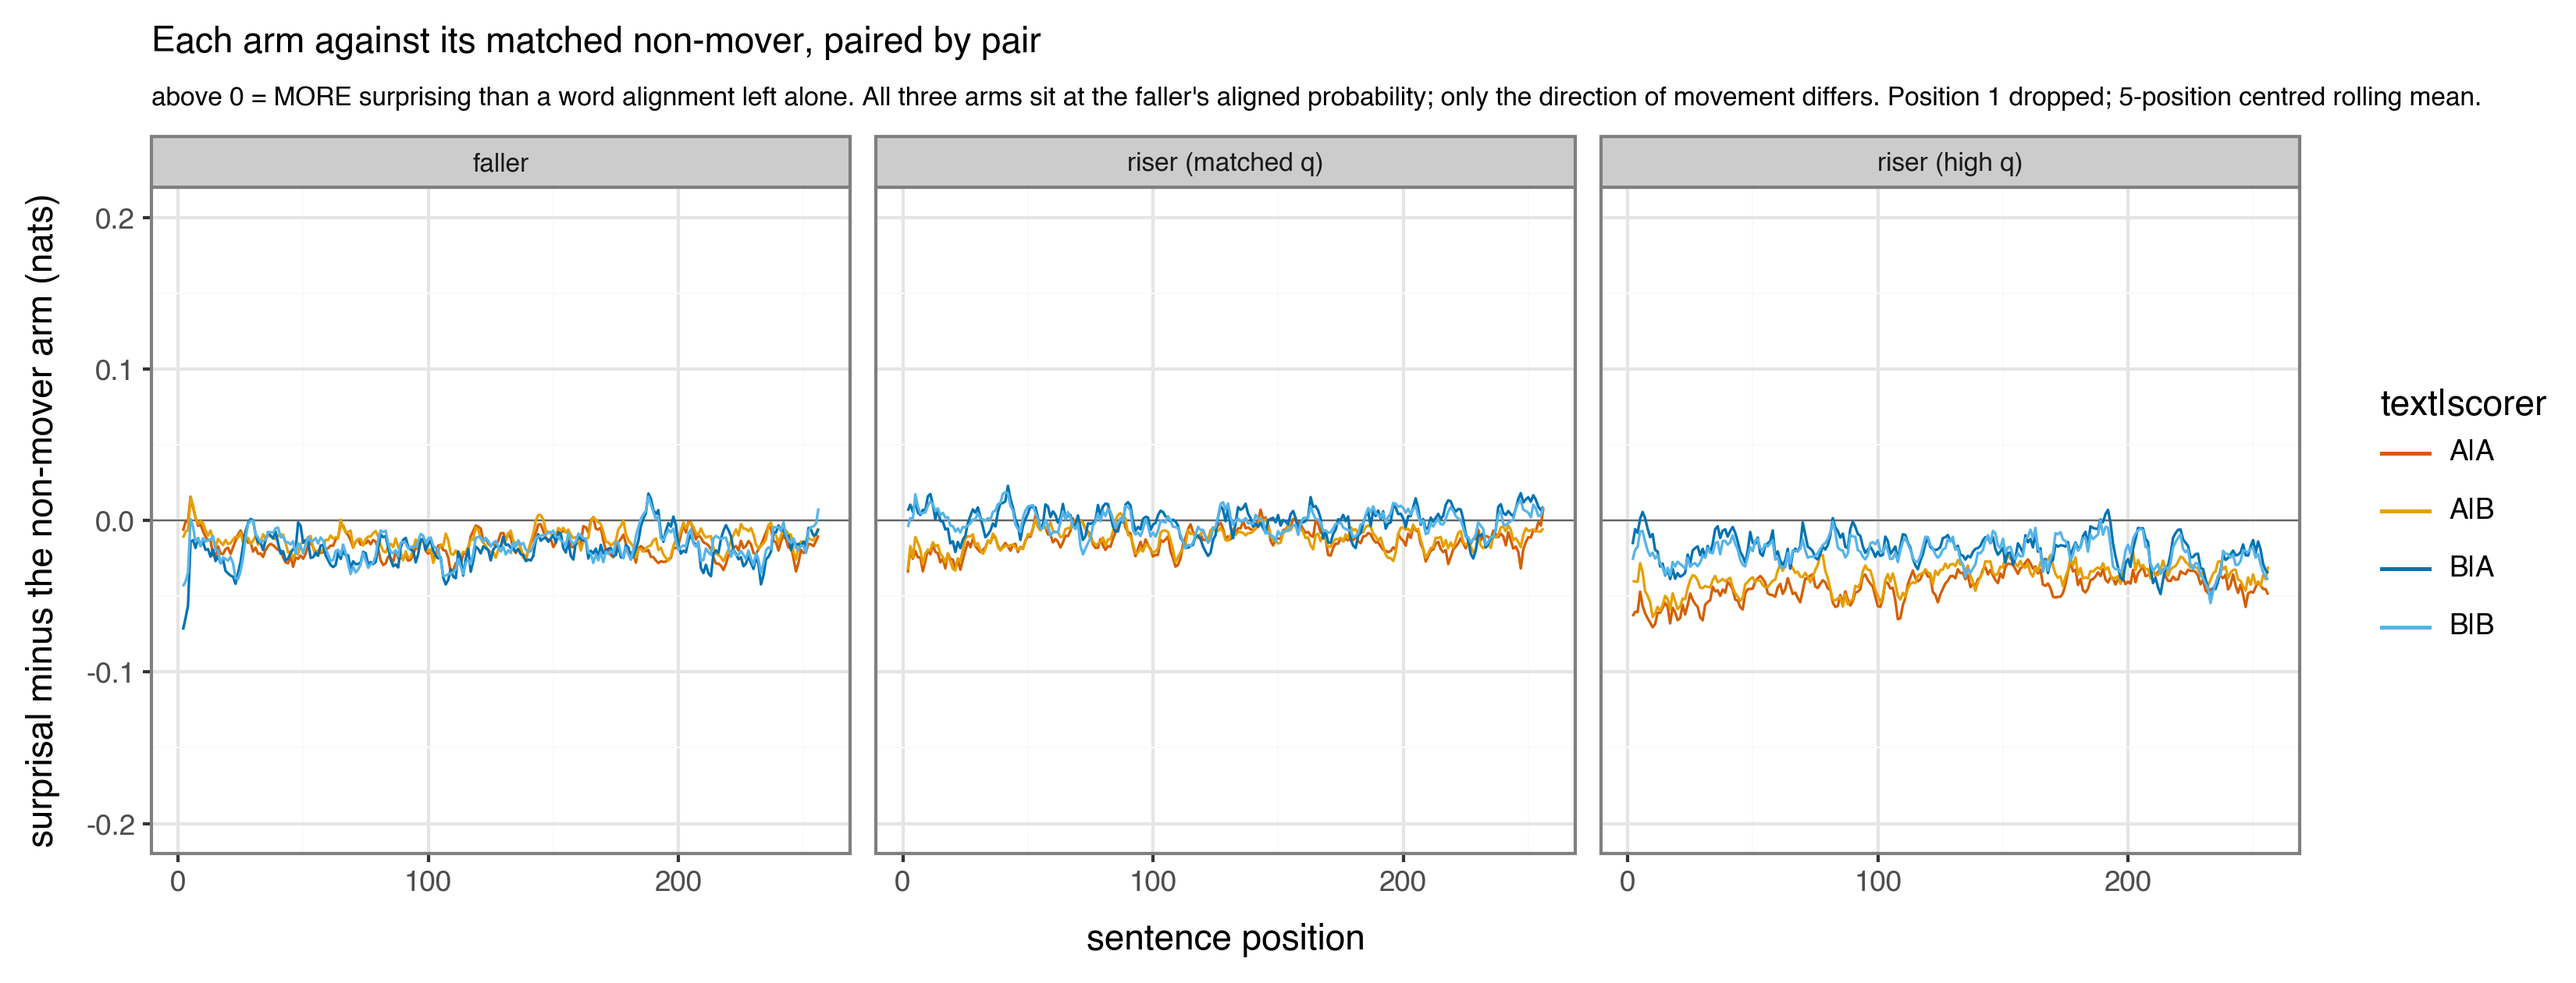
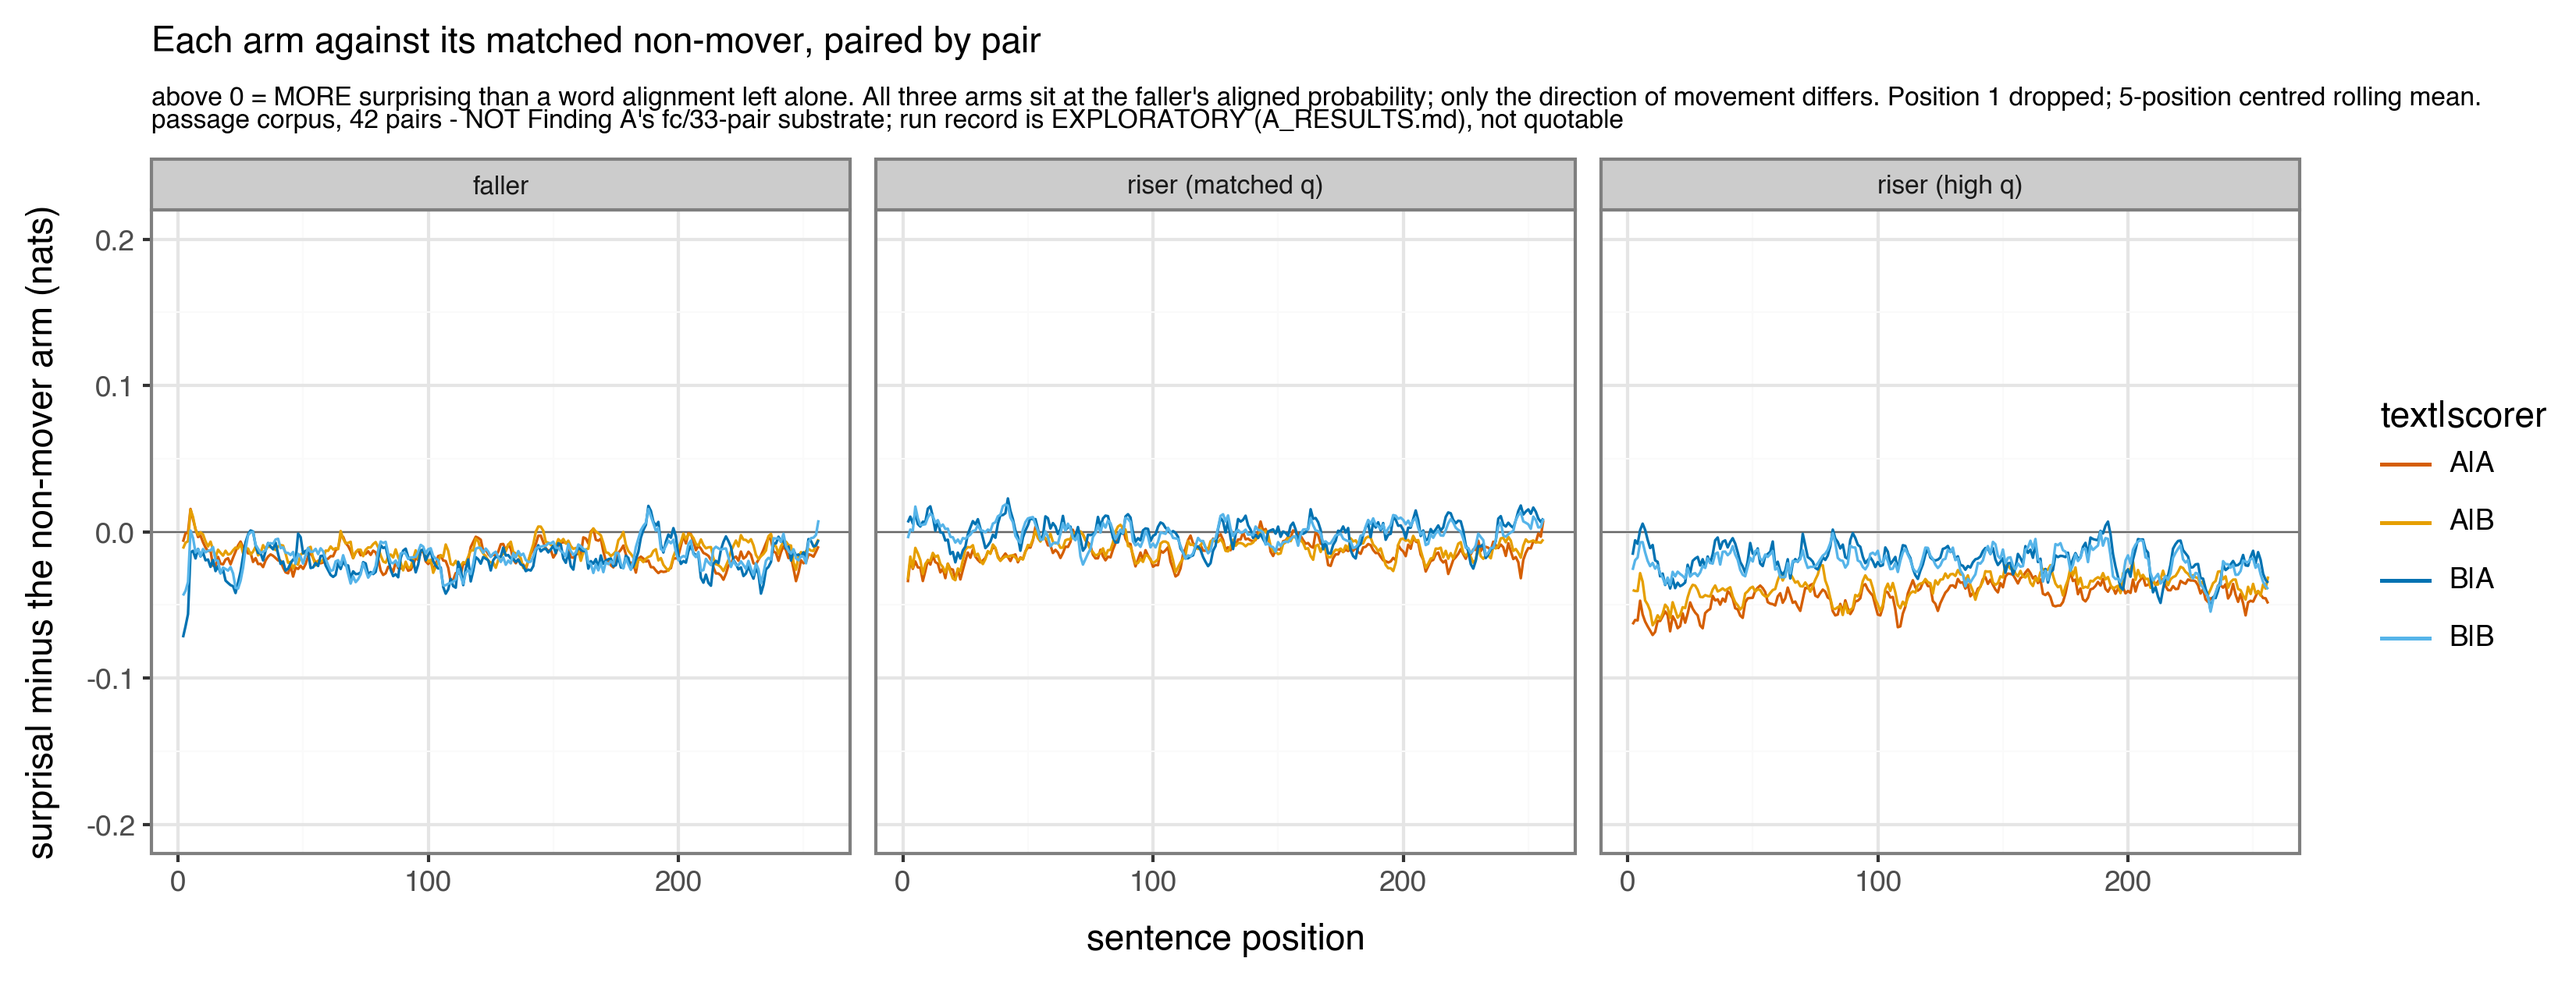
M04 figures carry their substrate: they are NOT Finding A's
dario's inventory [5901] found M04 is two substrates under one letter. Finding A
proper is the FC corpus -- 33 pairs, 23,746 cells -> 5,112 sites, registered
spec, producer channel3_run.py. These figures are named A_* and plot the PASSAGE
corpus at 42 pairs, whose run record opens "STATUS: EXPLORATORY. Nothing here is
quotable yet."

An A_-prefixed filename reads as the registered finding, so a plotter would
republish exploratory quantities as it. Every subtitle now states the corpus,
the pair count, that it is not Finding A's substrate, and that the run record is
not quotable. 12 of 14 regenerated.

The other two, A_offset_slope and A_offset_slope_terms, could not be stamped:
they have NO producing code anywhere in the repo, referenced only in
A_RESULTS.md's figure list. Self-referred as producer debt.

Changed region(s): [[0.0, 0.3405, 0.9052, 0.8667], [0.0, 0.0929, 0.9052, 0.3095], [0.9052, 0.4024, 0.9988, 0.65]]

diff --git a/meta/M04_syntagmatic/scripts/a_position_figures.py b/meta/M04_syntagmatic/scripts/a_position_figures.py
@@ -35,6 +35,19 @@ sys.path.insert(0, os.path.dirname(os.path.dirname(os.path.dirname(
 import a_matched_control as A
 import a_dose_response as R
 
+#: **SUBSTRATE STAMP, ON EVERY FIGURE. dario's inventory, [5901].**
+#: These figures are named `A_*` and they are NOT Finding A's substrate.
+#: Finding A proper is the FC corpus -- 33 pairs, 23,746 cells -> 5,112 sites,
+#: registered spec, producer channel3_run.py. These plot the PASSAGE corpus at
+#: 42 pairs, whose run record (../results/A_RESULTS.md) opens with
+#: "STATUS: EXPLORATORY. Nothing here is quotable yet."
+#:
+#: Without the stamp a reader takes an `A_*` filename for the registered finding
+#: and republishes exploratory quantities as it. A figure is a claim that got
+#: harder to retract, so it has to carry its own substrate.
+STAMP = ("passage corpus, 42 pairs - NOT Finding A's fc/33-pair substrate; "
+         "run record is EXPLORATORY (A_RESULTS.md), not quotable")
+
 FIGDIR = "meta/M04_syntagmatic/figures"
 CACHE = "meta/M04_syntagmatic/results/a_position_curves.json"
 MAXPOS = 256
@@ -168,9 +181,9 @@ def figures(rows):
                 y="surprisal  (nats, median over 42 pairs)",
                 colour="text|scorer",
                 title="Surprisal by position, arm and scoring term",
-                subtitle="first letter = who wrote it, second = who scored it; "
+                subtitle=("first letter = who wrote it, second = who scored it; "
                          "positions aligned on the sentence, not the array. "
-                         "Position 1 dropped; %d-position centred rolling mean." % ROLL)
+                         "Position 1 dropped; %d-position centred rolling mean."% ROLL) + "\n" + STAMP)
          + theme_bw()
          + theme(figure_size=(11, 6), plot_title=element_text(size=11, weight="bold"),
                  plot_subtitle=element_text(size=8), strip_text=element_text(size=8)))
@@ -178,7 +191,7 @@ def figures(rows):
 
     # full range, log-ish view of the tail
     p2 = (p + scale_x_continuous(limits=(MINPOS, MAXPOS))
-            + labs(subtitle="full 256-token window"))
+            + labs(subtitle="full 256-token window" + "\n" + STAMP))
     p2.save(os.path.join(FIGDIR, "A_position_surprisal_full.png"), dpi=300, verbose=False)
 
     # CONTRAST: PAIRED — per-pair delta at each position, THEN median over pairs.
@@ -210,10 +223,10 @@ def figures(rows):
                      y="surprisal minus the non-mover arm (nats)",
                      colour="text|scorer",
                      title="Each arm against its matched non-mover, paired by pair",
-                     subtitle="above 0 = MORE surprising than a word alignment left alone. "
+                     subtitle=("above 0 = MORE surprising than a word alignment left alone. "
                               "All three arms sit at the faller's aligned probability; "
                               "only the direction of movement differs. "
-                              "Position 1 dropped; %d-position centred rolling mean." % ROLL)
+                              "Position 1 dropped; %d-position centred rolling mean."% ROLL) + "\n" + STAMP)
               + theme_bw()
               + theme(figure_size=(11, 4.2), plot_title=element_text(size=11, weight="bold"),
                       plot_subtitle=element_text(size=8), strip_text=element_text(size=8)))
@@ -260,7 +273,8 @@ def figures_by_term(df, order, roll=None, suffix=''):
                              "Free y per panel: the between-term level gap is ~1 nat, "
                              "the between-arm differences ~0.05. "
                              + ("Position 1 dropped; NO SMOOTHING." if (roll or ROLL) <= 1 else
-                              "Position 1 dropped; %d-position centred rolling mean." % (roll or ROLL)))
+                                "Position 1 dropped; %d-position centred rolling mean." % (roll or ROLL))
+                             + "\n" + STAMP)
              + theme_bw()
              + theme(figure_size=(11, 6.5), plot_title=element_text(size=11, weight="bold"),
                      plot_subtitle=element_text(size=8), strip_text=element_text(size=9)))
@@ -289,7 +303,7 @@ def figures_by_term(df, order, roll=None, suffix=''):
                     title="Against the matched non-mover: one panel per scoring term",
                     subtitle="above 0 = MORE surprising than a word alignment left alone. "
                              "undisturbed leaves the frame at positions 1-2 (+2.6 nats, the "
-                             "definitional cost of committing to any word) — zoomed, not clipped.")
+                             "definitional cost of committing to any word) — zoomed, not clipped." + "\n" + STAMP)
              + theme_bw()
              + theme(figure_size=(11, 6.5), plot_title=element_text(size=11, weight="bold"),
                      plot_subtitle=element_text(size=8), strip_text=element_text(size=9)))
